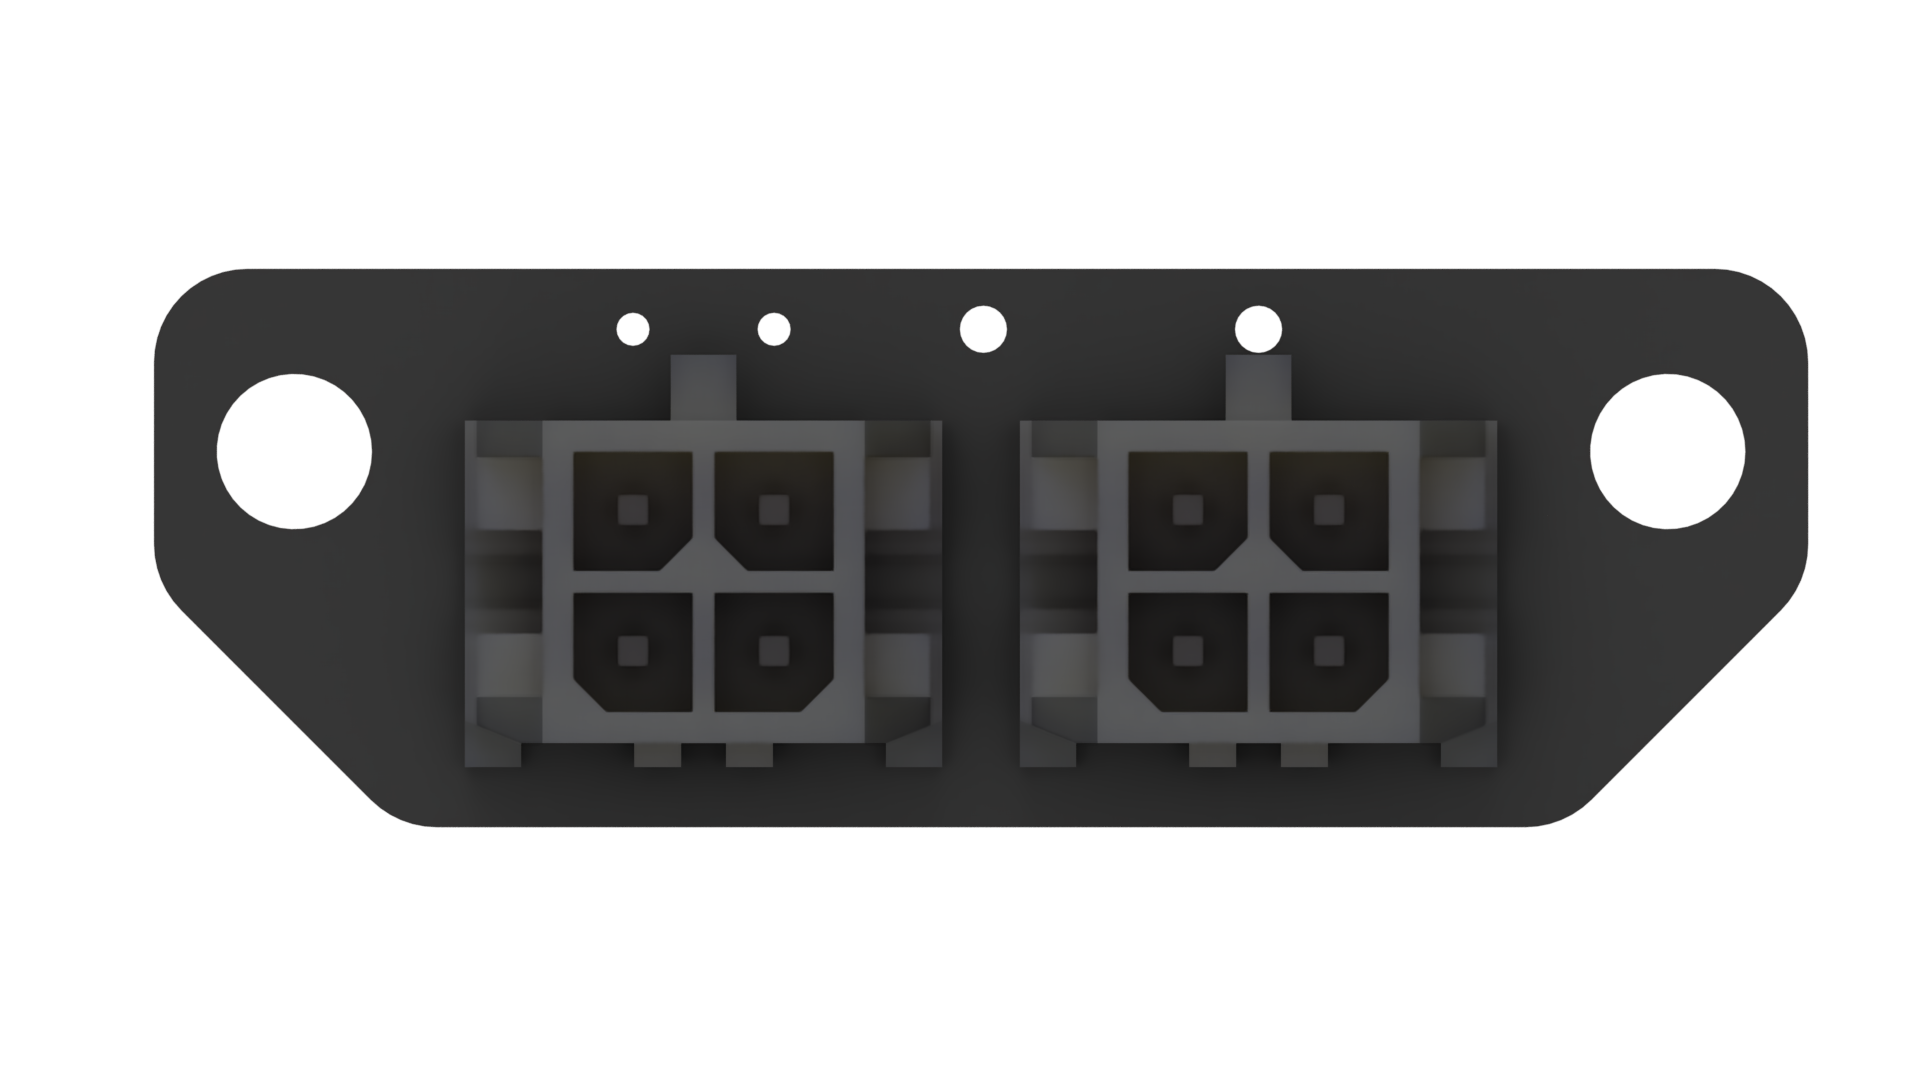
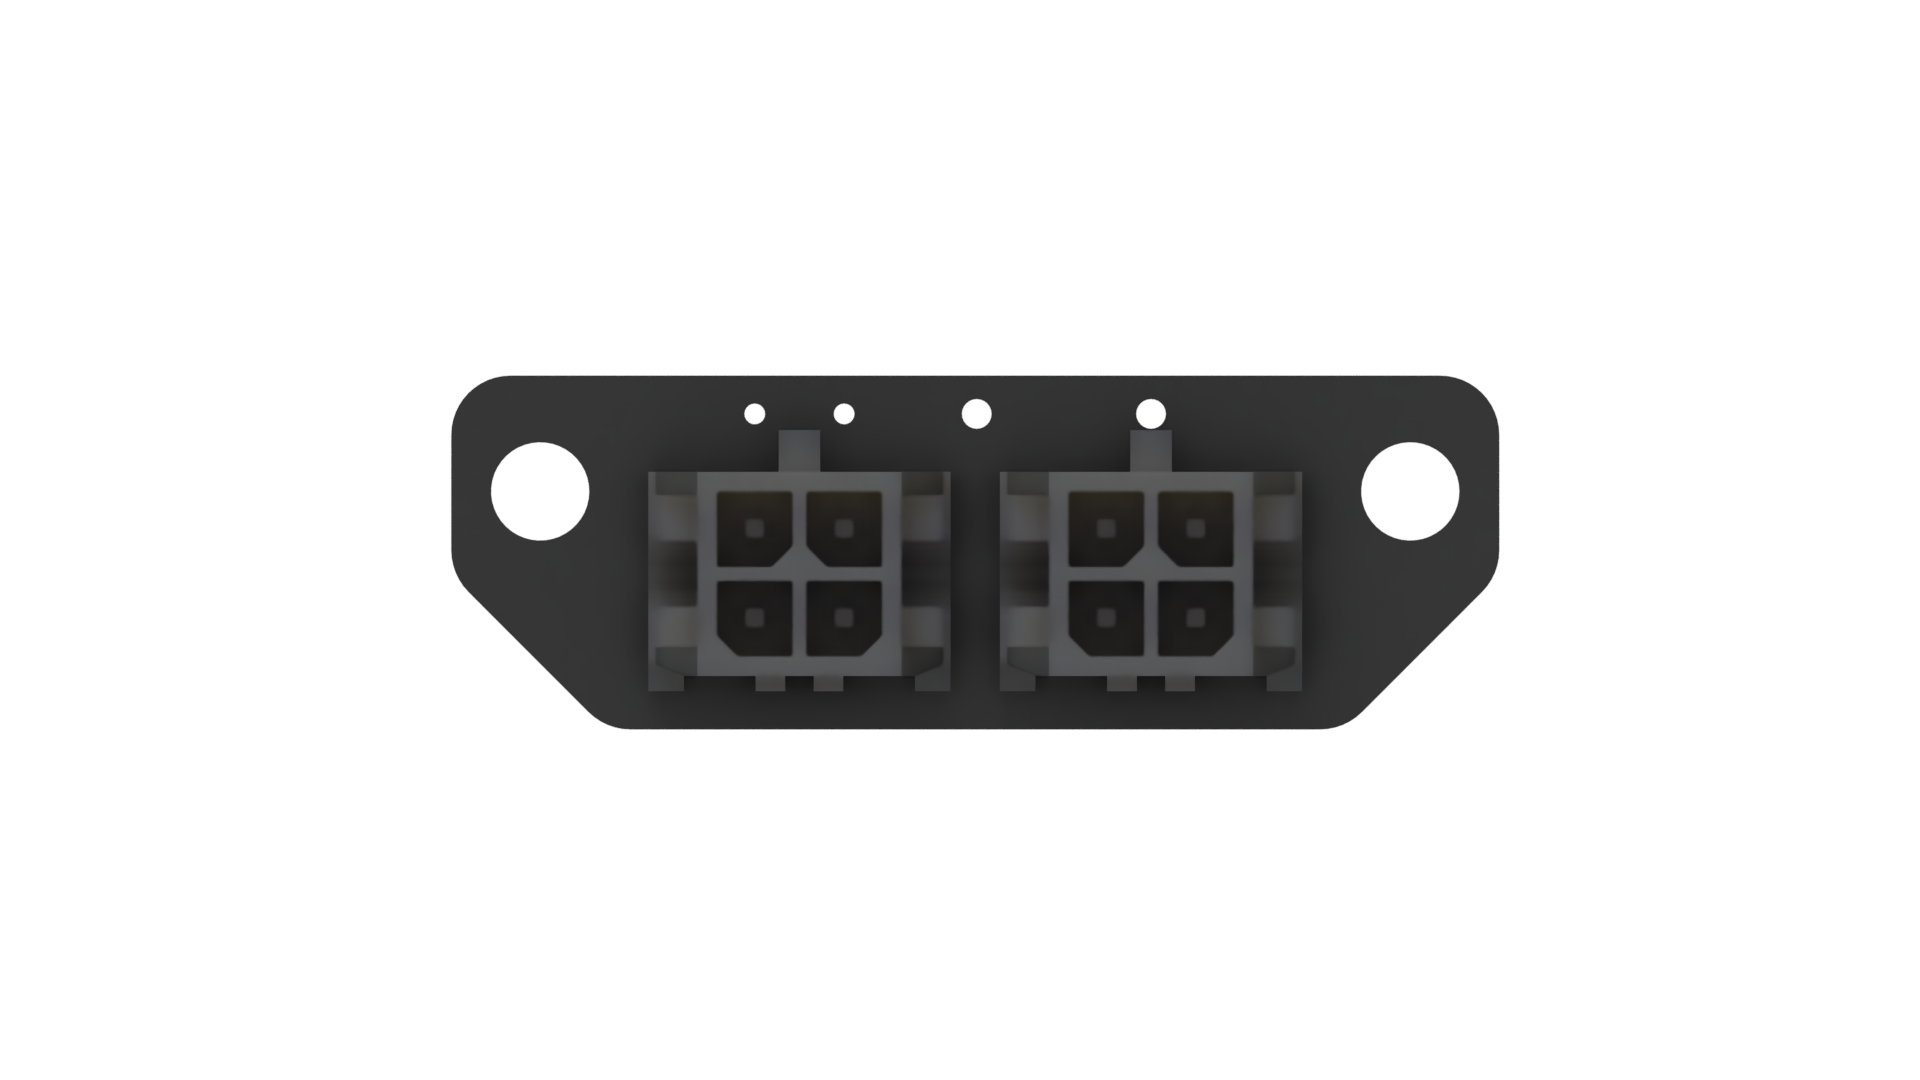
XT30 port cover

diff --git a/docs/Nevermore/SM3-PCB.md b/docs/Nevermore/SM3-PCB.md
@@ -51,7 +51,10 @@ There's a slide switch on the bottom side. Slide it left (toward the CAN+VIN con
 ### Port Cover Pinouts
 
 #### Micro-Fit CAN Daisy-Chain Port Cover
-![Pinout](../../pinouts/SM3-PC-MX/sm3_pc_mx.html){ type=application/pinout style="min-height:40vh;width:100%" }
+![Pinout](../../pinouts/SM3-PC-MX/sm3_pc_mx.html){ type=application/pinout style="min-height:50vh;width:100%" }
+
+#### XT30(2+2) CAN Port Cover
+![Pinout](../../pinouts/SM3-PC-XT/sm3-pc-xt30.html){ type=application/pinout style="min-height:50vh;width:100%" }
 
 ## Next Steps
 